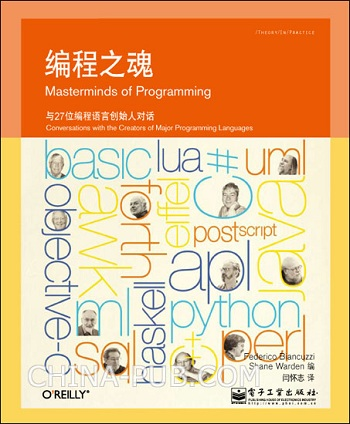
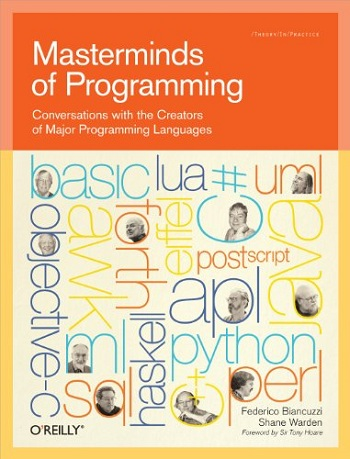
add:rnode three

diff --git a/rnote/《编程之魂：与27位编程语言创始人对话》.md b/rnote/《编程之魂：与27位编程语言创始人对话》.md
@@ -1,5 +1,4 @@
-![《编程之魂：与27位编程语言创始人对话》.jpg](https://i.loli.net/2020/02/21/uoAgOkCs1MTES3Y.jpg)
-
+![编程之魂：与27位编程语言创始人对话](https://i.loli.net/2020/02/21/twHsQELiR1d5bS9.jpg)
 
 
 **阅读场景**：业余闲暇
